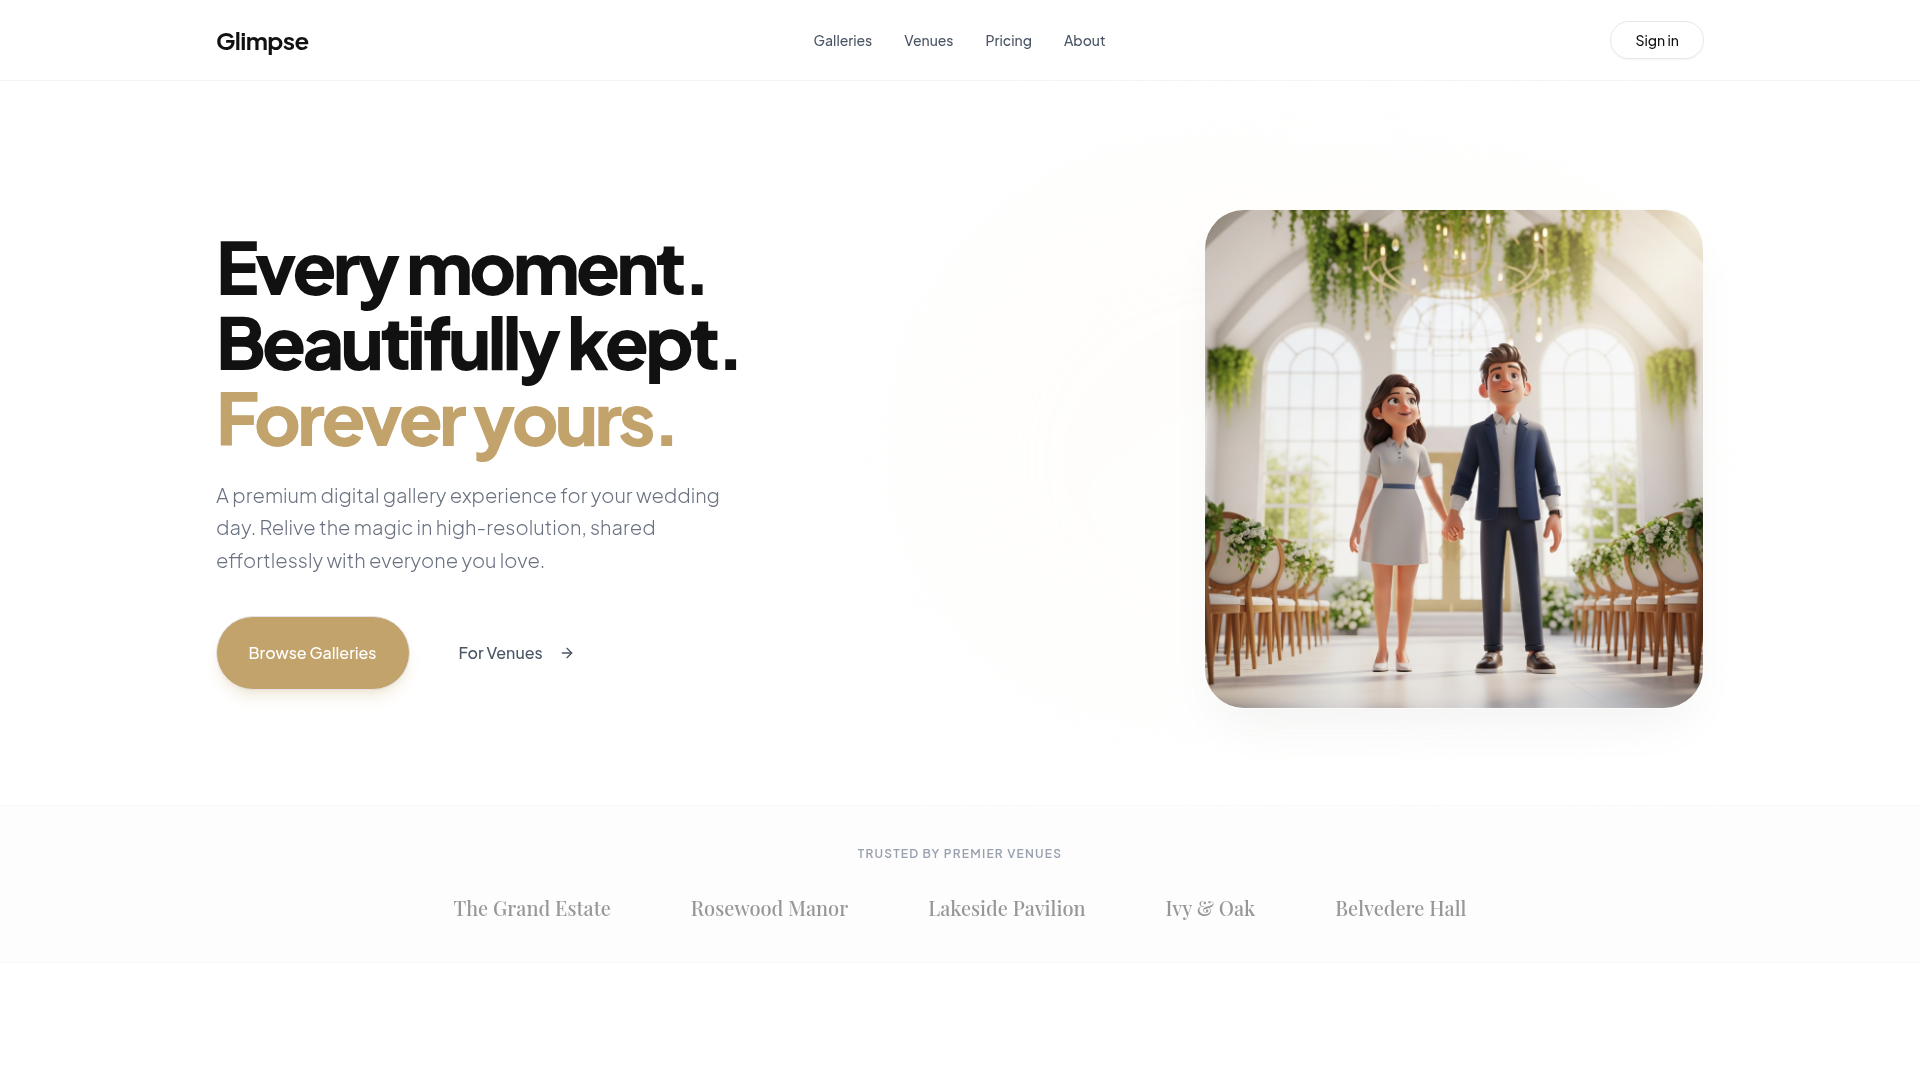
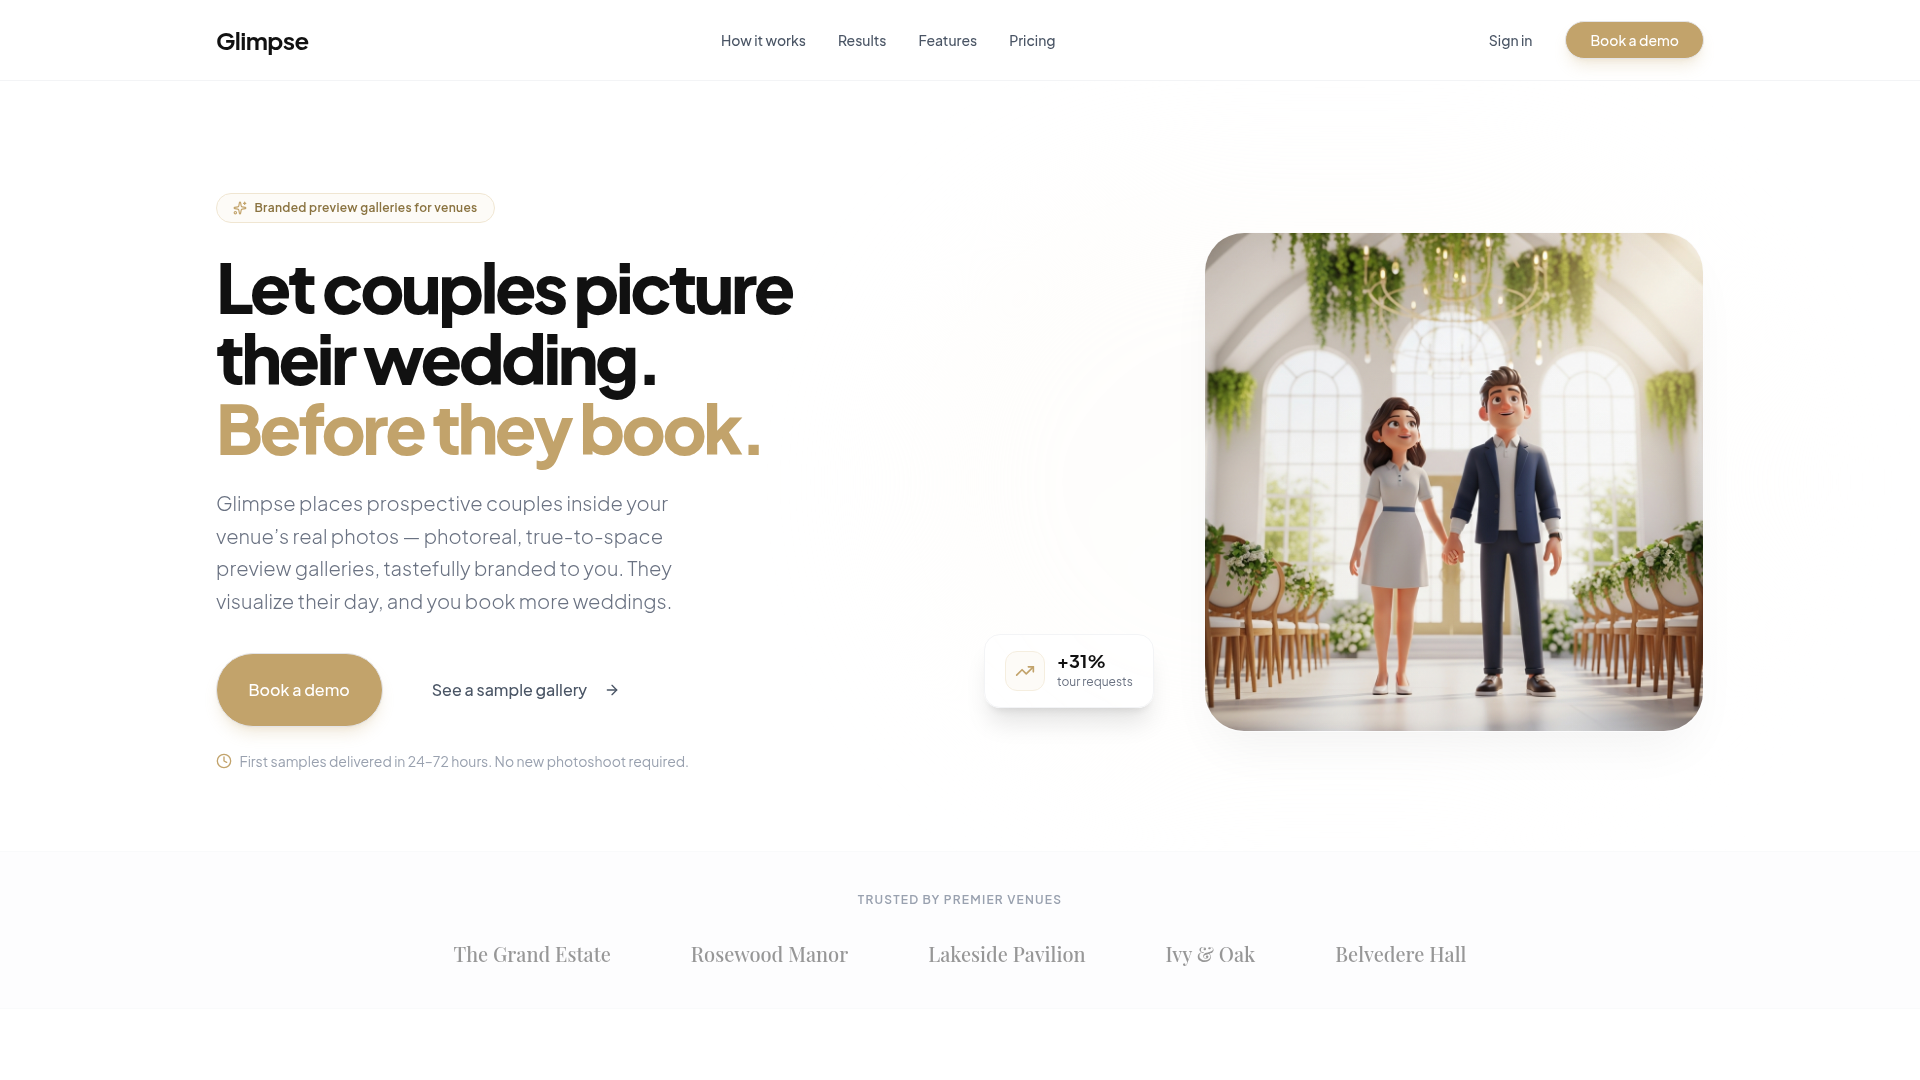
Update website content and structure for B2B venue audience
Refactors the Glimpse landing page to target B2B venues, updating navigation, hero section copy, CTAs, and feature descriptions to highlight ROI and service value.

Replit-Commit-Author: Agent
Replit-Commit-Session-Id: de2460bd-e8b6-4e5f-a82e-11c05ac5b801
Replit-Commit-Checkpoint-Type: full_checkpoint
Replit-Commit-Event-Id: ccdae4e7-5a85-4e31-bb0e-8d30d431de24
Replit-Commit-Screenshot-Url: https://storage.googleapis.com/screenshot-production-us-central1/c3681da7-f4dd-4678-8d6e-9b0ef2640092/de2460bd-e8b6-4e5f-a82e-11c05ac5b801/YGSxfgb
Replit-Helium-Checkpoint-Created: true

diff --git a/artifacts/mockup-sandbox/src/components/mockups/glimpse-landing/Landing.tsx b/artifacts/mockup-sandbox/src/components/mockups/glimpse-landing/Landing.tsx
@@ -1,29 +1,46 @@
 import React from "react";
-import { Heart, Image as ImageIcon, Download, Share2, Sparkles, Camera, ArrowRight, Menu } from "lucide-react";
+import {
+  ArrowRight,
+  Menu,
+  Sun,
+  Palette,
+  Megaphone,
+  CheckCircle2,
+  ShieldCheck,
+  Clock,
+  TrendingUp,
+  CalendarCheck,
+  Sparkles,
+  ImageUp,
+  Wand2,
+} from "lucide-react";
 import { Button } from "@/components/ui/button";
 import "./_group.css";
 
 export function Landing() {
   return (
     <div className="min-h-screen bg-white text-[#111111] font-jakarta selection:bg-[#C2A36B] selection:text-white overflow-x-hidden">
-      
+
       {/* Top Nav */}
       <header className="sticky top-0 z-50 w-full bg-white/80 backdrop-blur-md border-b border-gray-100">
         <div className="container mx-auto px-6 h-20 flex items-center justify-between">
           <div className="flex items-center gap-2">
             <span className="text-2xl font-bold tracking-tight">Glimpse</span>
           </div>
-          
+
           <nav className="hidden md:flex items-center gap-8 text-sm font-medium text-gray-600">
-            <a href="#" className="hover:text-[#111111] transition-colors">Galleries</a>
-            <a href="#" className="hover:text-[#111111] transition-colors">Venues</a>
-            <a href="#" className="hover:text-[#111111] transition-colors">Pricing</a>
-            <a href="#" className="hover:text-[#111111] transition-colors">About</a>
+            <a href="#how" className="hover:text-[#111111] transition-colors">How it works</a>
+            <a href="#results" className="hover:text-[#111111] transition-colors">Results</a>
+            <a href="#features" className="hover:text-[#111111] transition-colors">Features</a>
+            <a href="#pricing" className="hover:text-[#111111] transition-colors">Pricing</a>
           </nav>
-          
-          <div className="flex items-center gap-4">
-            <Button variant="outline" className="hidden md:inline-flex rounded-full px-6 border-gray-200 hover:bg-gray-50 text-sm font-medium">
+
+          <div className="flex items-center gap-3">
+            <Button variant="ghost" className="hidden md:inline-flex rounded-full px-5 text-sm font-medium text-gray-600 hover:text-[#111111] hover:bg-gray-50">
               Sign in
+            </Button>
+            <Button className="hidden md:inline-flex bg-gold hover:bg-[#b09159] text-white rounded-full px-6 text-sm font-medium shadow-lg shadow-[#C2A36B]/20">
+              Book a demo
             </Button>
             <Button variant="ghost" size="icon" className="md:hidden">
               <Menu className="h-5 w-5" />
@@ -34,44 +51,66 @@ export function Landing() {
 
       <main>
         {/* Hero Section */}
-        <section className="pt-24 pb-16 md:pt-32 md:pb-24 overflow-hidden">
+        <section className="pt-20 pb-16 md:pt-28 md:pb-20 overflow-hidden">
           <div className="container mx-auto px-6">
             <div className="grid grid-cols-1 lg:grid-cols-2 gap-12 lg:gap-8 items-center">
-              
+
               {/* Left Column: Copy */}
               <div className="max-w-xl animate-fade-in-up">
-                <h1 className="text-[3.5rem] md:text-[4.5rem] leading-[1.05] tracking-tighter font-extrabold text-[#111111] mb-6">
-                  Every moment.<br/>
-                  Beautifully kept.<br/>
-                  <span className="text-gold">Forever yours.</span>
+                <div className="inline-flex items-center gap-2 rounded-full border border-[#f0e6d2] bg-[#fdfbf7] px-4 py-1.5 mb-7 text-xs font-semibold tracking-wide text-[#8a7340]">
+                  <Sparkles className="w-3.5 h-3.5 text-gold" />
+                  Branded preview galleries for venues
+                </div>
+
+                <h1 className="text-[3.25rem] md:text-[4.25rem] leading-[1.04] tracking-tighter font-extrabold text-[#111111] mb-6">
+                  Let couples picture<br/>
+                  their wedding.<br/>
+                  <span className="text-gold">Before they book.</span>
                 </h1>
-                
-                <p className="text-lg md:text-xl text-gray-500 mb-10 max-w-lg leading-relaxed font-light">
-                  A premium digital gallery experience for your wedding day. Relive the magic in high-resolution, shared effortlessly with everyone you love.
+
+                <p className="text-lg md:text-xl text-gray-500 mb-9 max-w-lg leading-relaxed font-light">
+                  Glimpse places prospective couples inside your venue&rsquo;s real photos &mdash;
+                  photoreal, true-to-space preview galleries, tastefully branded to you.
+                  They visualize their day, and you book more weddings.
                 </p>
-                
+
                 <div className="flex flex-col sm:flex-row items-center gap-4">
                   <Button className="w-full sm:w-auto bg-gold hover:bg-[#b09159] text-white rounded-full px-8 py-6 text-base font-medium transition-all shadow-lg shadow-[#C2A36B]/20">
-                    Browse Galleries
+                    Book a demo
                   </Button>
                   <Button variant="ghost" className="w-full sm:w-auto rounded-full px-8 py-6 text-base font-medium text-gray-600 hover:text-[#111111] hover:bg-gray-50 group">
-                    For Venues <ArrowRight className="ml-2 h-4 w-4 transition-transform group-hover:translate-x-1" />
+                    See a sample gallery <ArrowRight className="ml-2 h-4 w-4 transition-transform group-hover:translate-x-1" />
                   </Button>
                 </div>
+
+                <p className="mt-6 text-sm text-gray-400 flex items-center gap-2">
+                  <Clock className="w-4 h-4 text-gold" />
+                  First samples delivered in 24&ndash;72 hours. No new photoshoot required.
+                </p>
               </div>
 
               {/* Right Column: Image */}
               <div className="relative animate-fade-in-up delay-100 flex justify-center lg:justify-end">
                 <div className="relative w-full max-w-[500px] aspect-square rounded-[2.5rem] overflow-hidden shadow-2xl shadow-black/5 border border-gray-50/50">
-                  <img 
-                    src="/__mockup/images/couple-venue-tour.png" 
-                    alt="Couple touring a wedding venue" 
+                  <img
+                    src="/__mockup/images/couple-venue-tour.png"
+                    alt="A couple visualizing their wedding inside a venue"
                     className="w-full h-full object-cover"
                   />
-                  {/* Subtle vignette/overlay if needed */}
                   <div className="absolute inset-0 bg-gradient-to-tr from-black/5 to-transparent pointer-events-none"></div>
                 </div>
-                
+
+                {/* Floating proof card */}
+                <div className="absolute bottom-6 -left-2 sm:left-2 bg-white/95 backdrop-blur rounded-2xl shadow-xl shadow-black/10 border border-gray-100 px-5 py-4 flex items-center gap-3 animate-fade-in-up delay-200">
+                  <div className="w-10 h-10 rounded-xl bg-[#fdfbf7] flex items-center justify-center text-gold border border-[#f5eedf]">
+                    <TrendingUp className="w-5 h-5" />
+                  </div>
+                  <div>
+                    <div className="text-lg font-bold leading-none text-[#111111]">+31%</div>
+                    <div className="text-xs text-gray-500 mt-1">tour requests</div>
+                  </div>
+                </div>
+
                 {/* Decorative element */}
                 <div className="absolute -z-10 top-1/2 left-1/2 -translate-x-1/2 -translate-y-1/2 w-[120%] h-[120%] bg-gradient-to-br from-[#fdfbf7] to-white rounded-full blur-3xl opacity-50"></div>
               </div>
@@ -94,68 +133,158 @@ export function Landing() {
           </div>
         </section>
 
-        {/* Features Section */}
-        <section className="py-24 md:py-32 bg-white">
+        {/* Results / Metrics Band */}
+        <section id="results" className="py-20 md:py-28 bg-white">
           <div className="container mx-auto px-6">
-            <div className="text-center max-w-2xl mx-auto mb-16 md:mb-24">
+            <div className="text-center max-w-2xl mx-auto mb-14">
+              <p className="text-xs font-semibold tracking-widest uppercase text-gold mb-4">Measurable ROI</p>
+              <h2 className="text-3xl md:text-4xl font-bold tracking-tight text-[#111111]">
+                Fewer empty dates. Shorter sales cycles.
+              </h2>
+            </div>
+
+            <div className="grid grid-cols-1 sm:grid-cols-3 gap-6 md:gap-8 max-w-4xl mx-auto">
+              {[
+                { stat: "3.2x", label: "more qualified tour requests", icon: TrendingUp },
+                { stat: "−38%", label: "shorter average sales cycle", icon: CalendarCheck },
+                { stat: "+27%", label: "lift in booking conversion", icon: CheckCircle2 },
+              ].map(({ stat, label, icon: Icon }) => (
+                <div key={label} className="rounded-3xl border border-gray-100 bg-white p-8 text-center hover:shadow-lg hover:shadow-black/5 transition-all">
+                  <div className="w-11 h-11 rounded-2xl bg-[#fdfbf7] flex items-center justify-center mb-5 mx-auto text-gold border border-[#f5eedf]">
+                    <Icon className="w-5 h-5" />
+                  </div>
+                  <div className="text-4xl md:text-5xl font-extrabold tracking-tight text-[#111111] mb-2">{stat}</div>
+                  <p className="text-gray-500 font-light text-sm leading-relaxed">{label}</p>
+                </div>
+              ))}
+            </div>
+            <p className="text-center text-xs text-gray-400 mt-8">Illustrative results from early venue partners. Your mileage varies by market and offer.</p>
+          </div>
+        </section>
+
+        {/* How It Works */}
+        <section id="how" className="py-20 md:py-28 bg-[#fdfbf7] border-y border-[#f5eedf]">
+          <div className="container mx-auto px-6">
+            <div className="text-center max-w-2xl mx-auto mb-16">
+              <p className="text-xs font-semibold tracking-widest uppercase text-gold mb-4">How it works</p>
               <h2 className="text-3xl md:text-4xl font-bold tracking-tight text-[#111111] mb-4">
-                The perfect home for your memories
+                Live in days, not weeks
               </h2>
               <p className="text-gray-500 text-lg font-light">
-                Designed to elegantly showcase the biggest day of your life without getting in the way.
+                No new shoot, no software to learn. Send us your space and we handle the rest.
               </p>
             </div>
 
-            <div className="grid grid-cols-1 md:grid-cols-3 gap-8 lg:gap-12">
-              {/* Feature 1 */}
-              <div className="group rounded-3xl p-8 transition-all hover:bg-gray-50/50">
-                <div className="w-12 h-12 rounded-2xl bg-[#fdfbf7] flex items-center justify-center mb-6 text-gold shadow-sm border border-[#f5eedf] group-hover:scale-110 transition-transform">
-                  <ImageIcon className="w-6 h-6" />
+            <div className="grid grid-cols-1 md:grid-cols-3 gap-8">
+              {[
+                {
+                  step: "01",
+                  icon: ImageUp,
+                  title: "Send us your space",
+                  body: "Share the venue photos you already have. We map your rooms, lighting, and signature angles.",
+                },
+                {
+                  step: "02",
+                  icon: Wand2,
+                  title: "We craft the preview",
+                  body: "Photoreal, true-to-space galleries with accurate scale, lighting and shadows — branded to you. Delivered in 24–72h.",
+                },
+                {
+                  step: "03",
+                  icon: CheckCircle2,
+                  title: "Approve & convert",
+                  body: "Review and approve every render, then publish to your site, ads and emails with a clear inquiry CTA.",
+                },
+              ].map(({ step, icon: Icon, title, body }) => (
+                <div key={step} className="relative rounded-3xl bg-white border border-[#f0e6d2]/60 p-8 shadow-sm">
+                  <span className="absolute top-6 right-7 text-5xl font-extrabold text-[#f0e6d2]">{step}</span>
+                  <div className="w-12 h-12 rounded-2xl bg-[#fdfbf7] flex items-center justify-center mb-6 text-gold shadow-sm border border-[#f5eedf]">
+                    <Icon className="w-6 h-6" />
+                  </div>
+                  <h3 className="text-xl font-bold mb-3 text-[#111111]">{title}</h3>
+                  <p className="text-gray-500 font-light leading-relaxed">{body}</p>
                 </div>
-                <h3 className="text-xl font-bold mb-3 text-[#111111]">Your day, beautifully kept</h3>
-                <p className="text-gray-500 font-light leading-relaxed">
-                  A stunning digital gallery customized with your names and venue details. Relive the narrative of your day.
-                </p>
-              </div>
+              ))}
+            </div>
+          </div>
+        </section>
 
-              {/* Feature 2 */}
-              <div className="group rounded-3xl p-8 transition-all hover:bg-gray-50/50">
-                <div className="w-12 h-12 rounded-2xl bg-[#fdfbf7] flex items-center justify-center mb-6 text-gold shadow-sm border border-[#f5eedf] group-hover:scale-110 transition-transform">
-                  <Share2 className="w-6 h-6" />
-                </div>
-                <h3 className="text-xl font-bold mb-3 text-[#111111]">Share with every guest</h3>
-                <p className="text-gray-500 font-light leading-relaxed">
-                  A simple, secure link lets family and friends access the magic. No apps to download, no confusing logins.
-                </p>
-              </div>
+        {/* Features Section */}
+        <section id="features" className="py-24 md:py-32 bg-white">
+          <div className="container mx-auto px-6">
+            <div className="text-center max-w-2xl mx-auto mb-16 md:mb-20">
+              <p className="text-xs font-semibold tracking-widest uppercase text-gold mb-4">Built for booking</p>
+              <h2 className="text-3xl md:text-4xl font-bold tracking-tight text-[#111111] mb-4">
+                Marketing-first, true to your space
+              </h2>
+              <p className="text-gray-500 text-lg font-light">
+                Every output is designed to win the inquiry — and to protect your brand while it does.
+              </p>
+            </div>
 
-              {/* Feature 3 */}
-              <div className="group rounded-3xl p-8 transition-all hover:bg-gray-50/50">
-                <div className="w-12 h-12 rounded-2xl bg-[#fdfbf7] flex items-center justify-center mb-6 text-gold shadow-sm border border-[#f5eedf] group-hover:scale-110 transition-transform">
-                  <Download className="w-6 h-6" />
+            <div className="grid grid-cols-1 md:grid-cols-2 lg:grid-cols-3 gap-6 lg:gap-8">
+              {[
+                {
+                  icon: Sun,
+                  title: "True-to-space realism",
+                  body: "Accurate scale, natural lighting and believable shadows — couples see your venue, not a generic render.",
+                },
+                {
+                  icon: Palette,
+                  title: "Tasteful venue branding",
+                  body: "Your name, colors and details, woven in elegantly. Premium and warm, never busy or templated.",
+                },
+                {
+                  icon: Megaphone,
+                  title: "Ready for every channel",
+                  body: "Compact variants sized for ads, email and on-site embeds — drop them straight into your funnel.",
+                },
+                {
+                  icon: CheckCircle2,
+                  title: "Owner approval controls",
+                  body: "Nothing goes live without your sign-off. Review, request changes, and approve every gallery.",
+                },
+                {
+                  icon: ShieldCheck,
+                  title: "Privacy by default",
+                  body: "Optional demo watermarking keeps work-in-progress and sensitive spaces protected before launch.",
+                },
+                {
+                  icon: Clock,
+                  title: "Fast sample delivery",
+                  body: "First previews back in 24–72 hours, so you can test, iterate and start converting this week.",
+                },
+              ].map(({ icon: Icon, title, body }) => (
+                <div key={title} className="group rounded-3xl p-8 transition-all hover:bg-gray-50/60 border border-transparent hover:border-gray-100">
+                  <div className="w-12 h-12 rounded-2xl bg-[#fdfbf7] flex items-center justify-center mb-6 text-gold shadow-sm border border-[#f5eedf] group-hover:scale-110 transition-transform">
+                    <Icon className="w-6 h-6" />
+                  </div>
+                  <h3 className="text-xl font-bold mb-3 text-[#111111]">{title}</h3>
+                  <p className="text-gray-500 font-light leading-relaxed">{body}</p>
                 </div>
-                <h3 className="text-xl font-bold mb-3 text-[#111111]">Download in full quality</h3>
-                <p className="text-gray-500 font-light leading-relaxed">
-                  Access original high-resolution photos and videos. Print them, frame them, keep them forever.
-                </p>
-              </div>
+              ))}
             </div>
           </div>
         </section>
 
         {/* Closing CTA */}
-        <section className="py-24 bg-[#fdfbf7] border-y border-[#f5eedf]">
+        <section id="pricing" className="py-24 bg-[#111111] text-white">
           <div className="container mx-auto px-6 text-center max-w-3xl">
             <Sparkles className="w-8 h-8 text-gold mx-auto mb-6" />
-            <h2 className="text-4xl md:text-5xl font-bold tracking-tight text-[#111111] mb-6">
-              Ready to see the magic?
+            <h2 className="text-4xl md:text-5xl font-bold tracking-tight mb-6">
+              Turn lookers into booked weddings
             </h2>
-            <p className="text-xl text-gray-500 font-light mb-10 max-w-xl mx-auto">
-              Ask your venue about Glimpse, or explore our public galleries to see how we preserve the best days.
+            <p className="text-xl text-gray-300 font-light mb-10 max-w-xl mx-auto">
+              See a branded sample of your own venue, free. We&rsquo;ll walk you through the ROI on a 20-minute demo.
             </p>
-            <Button className="bg-[#111111] hover:bg-black text-white rounded-full px-10 py-7 text-lg font-medium transition-all shadow-xl shadow-black/10">
-              Find My Gallery
-            </Button>
+            <div className="flex flex-col sm:flex-row items-center justify-center gap-4">
+              <Button className="w-full sm:w-auto bg-gold hover:bg-[#b09159] text-white rounded-full px-10 py-7 text-lg font-medium transition-all shadow-xl shadow-[#C2A36B]/20">
+                Book a demo
+              </Button>
+              <Button variant="ghost" className="w-full sm:w-auto rounded-full px-10 py-7 text-lg font-medium text-gray-200 hover:text-white hover:bg-white/10 group">
+                Get a free sample <ArrowRight className="ml-2 h-5 w-5 transition-transform group-hover:translate-x-1" />
+              </Button>
+            </div>
           </div>
         </section>
       </main>
@@ -166,16 +295,17 @@ export function Landing() {
           <div className="flex items-center gap-2">
             <span className="text-xl font-bold tracking-tight text-gray-300">Glimpse</span>
           </div>
-          
-          <div className="flex gap-8 text-sm text-gray-400">
+
+          <div className="flex flex-wrap justify-center gap-8 text-sm text-gray-400">
+            <a href="#how" className="hover:text-gold transition-colors">How it works</a>
+            <a href="#results" className="hover:text-gold transition-colors">Results</a>
+            <a href="#pricing" className="hover:text-gold transition-colors">Pricing</a>
             <a href="#" className="hover:text-gold transition-colors">Privacy</a>
-            <a href="#" className="hover:text-gold transition-colors">Terms</a>
-            <a href="#" className="hover:text-gold transition-colors">Support</a>
-            <a href="#" className="hover:text-gold transition-colors">For Venues</a>
+            <a href="#" className="hover:text-gold transition-colors">Book a demo</a>
           </div>
-          
+
           <p className="text-sm text-gray-400">
-            &copy; {new Date().getFullYear()} Glimpse. All rights reserved.
+            &copy; {new Date().getFullYear()} Glimpse. For venues, by design.
           </p>
         </div>
       </footer>
